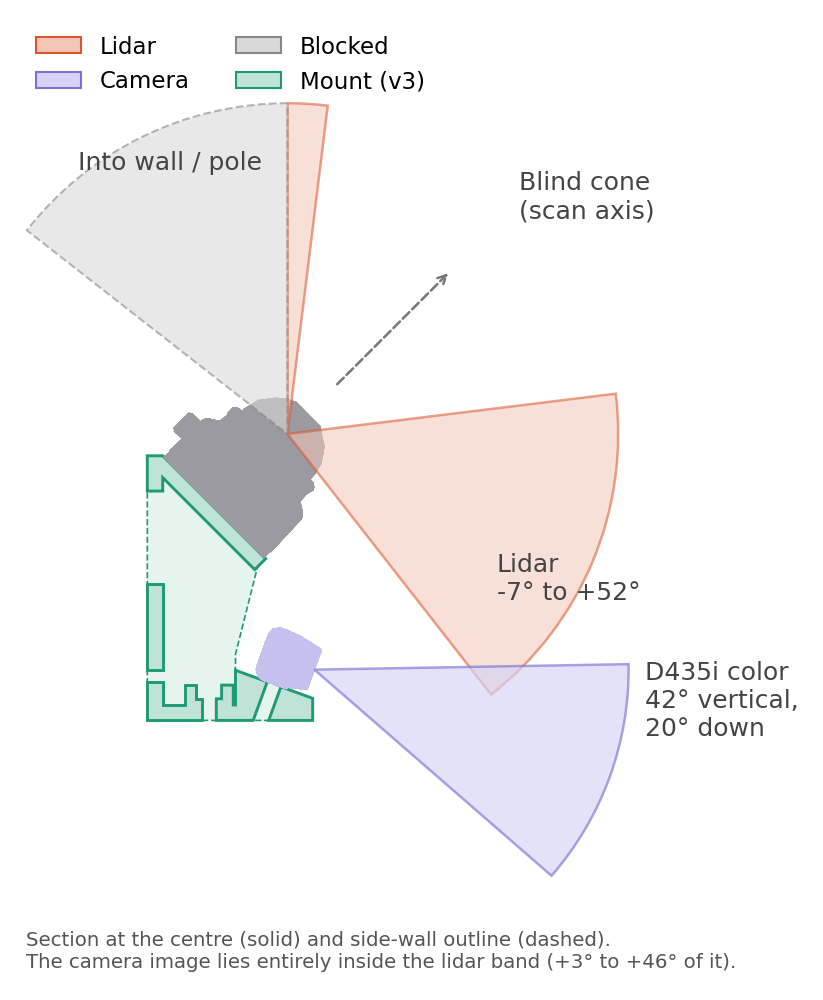
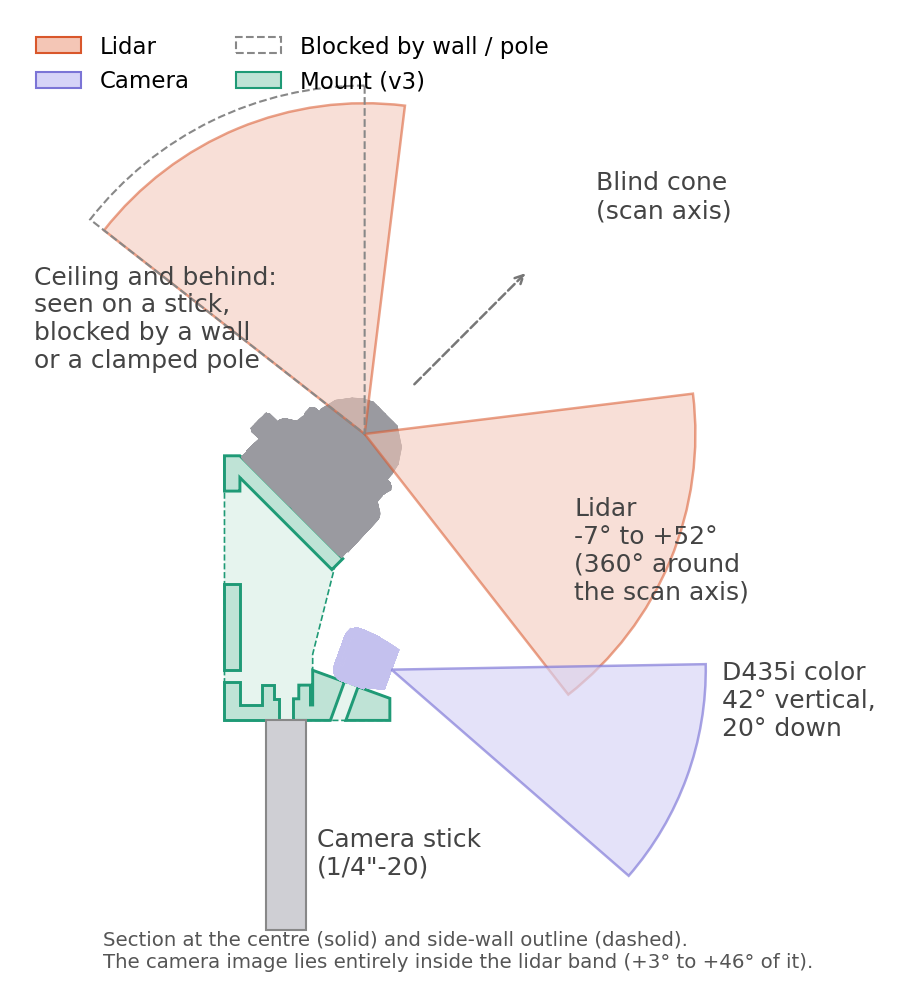
Mount FOV diagram: on a camera stick the lidar's upper-back band is free (ceiling and behind); only a wall or clamped pole blocks it

diff --git a/hardware/mount/README.md b/hardware/mount/README.md
@@ -21,7 +21,7 @@ A 3D-printable mount for the Livox Mid-360S and an Intel RealSense D435i. The li
 
 The sensors in the views are rendered from Livox's published Mid-360S 3D model and the RealSense ROS description's D435 mesh, placed where the mount puts them; the CAD script's clearance checks use simple boxes, so it needs neither file.
 
-**Field of view:** the camera's whole image lies inside the lidar's band (the lidar sees −7° to +52° from its equator; the image spans +3° to +46° of that). The camera covers about 14% of the lidar's field of view, and objects closer than 0.8 m get no lidar points (FAST-LIO's `blind` setting).
+**Field of view:** the camera's whole image lies inside the lidar's band (the lidar sees −7° to +52° from its equator; the image spans +3° to +46° of that). The camera covers about 14% of the lidar's field of view, and objects closer than 0.8 m get no lidar points (FAST-LIO's `blind` setting). On a camera stick nothing is behind the mount, so the lidar also sees the ceiling and the area behind you (its upper-back band clears the back plate by ~5 cm); a wall or a hose-clamped pole blocks that part.
 
 | File | What it is |
 |------|------------|
